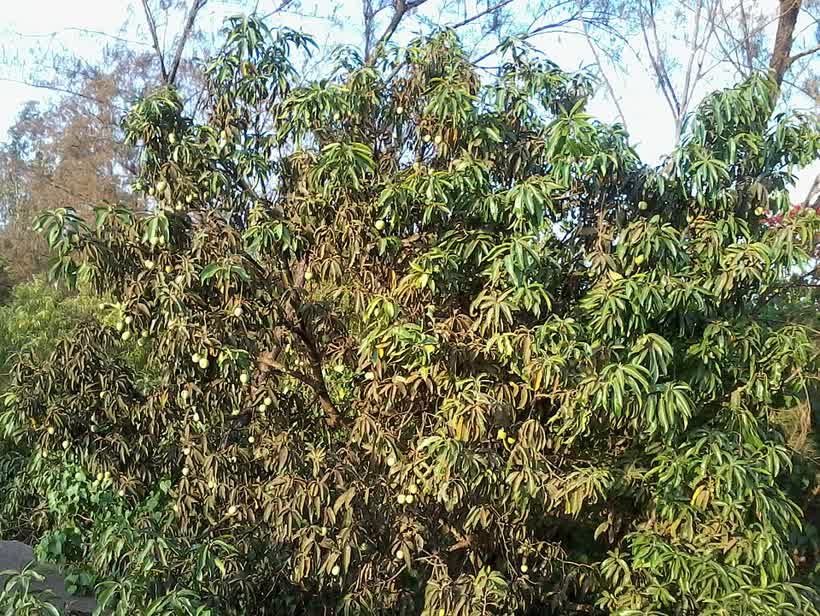
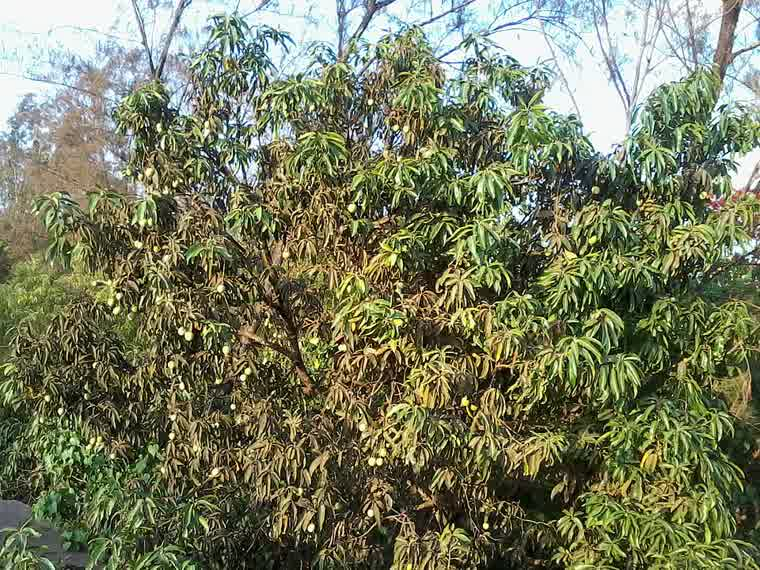
fix(mango): atribución CC de fotos reutilizadas + trim del hero
- Muestra el crédito visible de las fotos reutilizadas del mundo Frutales
  (árbol de ladera = CEphoto/Uwe Aranas CC BY-SA 3.0; injerto = Sorruno
  CC BY-SA 4.0) y las lista en los créditos + creditos.json.
- FotoMango: `slug` opcional (evita 2 errores tsc con reuse por `src`).
- arbol.jpg: 122KB→85KB (760px) para holgura del perf-budget (25.4/25.5MB).

diff --git a/src/components/mango/MangoScreen.jsx b/src/components/mango/MangoScreen.jsx
@@ -26,6 +26,8 @@ import {
   FOTO_BASE_MANGO,
   FOTO_FRUTALES_MANGO,
   FOTO_FRUTALES_INJERTO,
+  CREDITO_ARBOL_LADERA,
+  CREDITO_INJERTO,
   CREDITOS_FOTOS_MANGO,
 } from '../../data/mangoFinca';
 import './mango.css';
@@ -75,7 +77,7 @@ function SlotPendiente({ children = null }) {
  * oscuro es FIJO (no lo vira el remapeo de temas claros) para legibilidad. */
 const creditoDe = (slug) => CREDITOS_FOTOS_MANGO.find((c) => c.slug === slug)?.autor || '';
 
-function FotoMango({ slug, src = null, credito = null, alt, ratio = 'aspect-[16/10]', rounded = '', Fallback = Apple, kenburns = false, children = null }) {
+function FotoMango({ slug = null, src = null, credito = null, alt, ratio = 'aspect-[16/10]', rounded = '', Fallback = Apple, kenburns = false, children = null }) {
   const [ok, setOk] = useState(true);
   const autor = credito !== null ? credito : creditoDe(slug);
   const url = src || `${FOTO_BASE_MANGO}/${slug}.jpg`;
@@ -220,7 +222,7 @@ function EstacionSiembra() {
 
       {/* Del patrón al árbol (foto del injerto + pasos en orden) */}
       <div className="rounded-2xl border border-emerald-800/40 overflow-hidden bg-[#241a0c]/50">
-        <FotoMango src={FOTO_FRUTALES_INJERTO} credito="" alt="Injerto de yema en un frutal" ratio="aspect-[16/8]" Fallback={Scissors}>
+        <FotoMango src={FOTO_FRUTALES_INJERTO} credito={CREDITO_INJERTO} alt="Injerto de yema en un frutal" ratio="aspect-[16/8]" Fallback={Scissors}>
           <div className="absolute inset-0 flex flex-col justify-end p-4">
             <p className="flex items-center gap-1.5 text-[11px] font-black uppercase tracking-[0.16em] text-emerald-200">
               <Sprout size={14} aria-hidden="true" /> Del patrón al árbol
@@ -269,7 +271,7 @@ function EstacionClima({ onNavigate }) {
   return (
     <section className="mango-seccion space-y-4" data-testid="estacion-clima">
       <div className="rounded-2xl border border-amber-800/40 overflow-hidden bg-[#241a0c]/60">
-        <FotoMango src={FOTO_FRUTALES_MANGO} credito="" alt="Árbol de mango solitario en una ladera de tierra cálida" ratio="aspect-[16/9]" kenburns Fallback={Mountain}>
+        <FotoMango src={FOTO_FRUTALES_MANGO} credito={CREDITO_ARBOL_LADERA} alt="Árbol de mango solitario en una ladera de tierra cálida" ratio="aspect-[16/9]" kenburns Fallback={Mountain}>
           <div className="absolute inset-0 flex flex-col justify-end p-4">
             <p className="flex items-center gap-1.5 text-[11px] font-black uppercase tracking-[0.16em] text-amber-200">
               <Thermometer size={14} aria-hidden="true" /> ¿A mi finca le va?

diff --git a/src/data/mangoFinca.js b/src/data/mangoFinca.js
@@ -420,4 +420,12 @@ export const CREDITOS_FOTOS_MANGO = [
   { slug: 'fruto', autor: 'Ivar Leidus', licencia: 'CC BY-SA 4.0', licenciaUrl: 'https://creativecommons.org/licenses/by-sa/4.0', fuenteUrl: 'https://commons.wikimedia.org/wiki/File:Mango_fruit_Nam_Dok_Mai.jpg' },
   { slug: 'antracnosis', autor: 'Knowledge Center', licencia: 'CC BY-SA 3.0', licenciaUrl: 'https://creativecommons.org/licenses/by-sa/3.0', fuenteUrl: 'https://commons.wikimedia.org/wiki/File:Mango-anthracnose.jpg' },
   { slug: 'mosca', autor: 'Jeffrey W. Lotz (FDACS)', licencia: 'CC BY 3.0 us', licenciaUrl: 'https://creativecommons.org/licenses/by/3.0/us/deed.en', fuenteUrl: 'https://commons.wikimedia.org/wiki/File:Anastrepha_ludens_5179020.jpg' },
+  // Fotos REUTILIZADAS del mundo "Frutales" (ya en el bundle): igual llevan
+  // atribución visible aquí, por ser CC BY-SA.
+  { slug: 'arbol-ladera', autor: 'CEphoto, Uwe Aranas', licencia: 'CC BY-SA 3.0', licenciaUrl: 'https://creativecommons.org/licenses/by-sa/3.0', fuenteUrl: 'https://commons.wikimedia.org/wiki/File:Paitan_Sabah_Common-mango-Mangifera-indica-01.jpg' },
+  { slug: 'injerto', autor: 'Sorruno', licencia: 'CC BY-SA 4.0', licenciaUrl: 'https://creativecommons.org/licenses/by-sa/4.0', fuenteUrl: 'https://commons.wikimedia.org/wiki/File:Injerto_de_yema.JPG' },
 ];
+
+/** Autores de las fotos reutilizadas (para la atribución visible en el badge). */
+export const CREDITO_ARBOL_LADERA = 'CEphoto, Uwe Aranas';
+export const CREDITO_INJERTO = 'Sorruno';